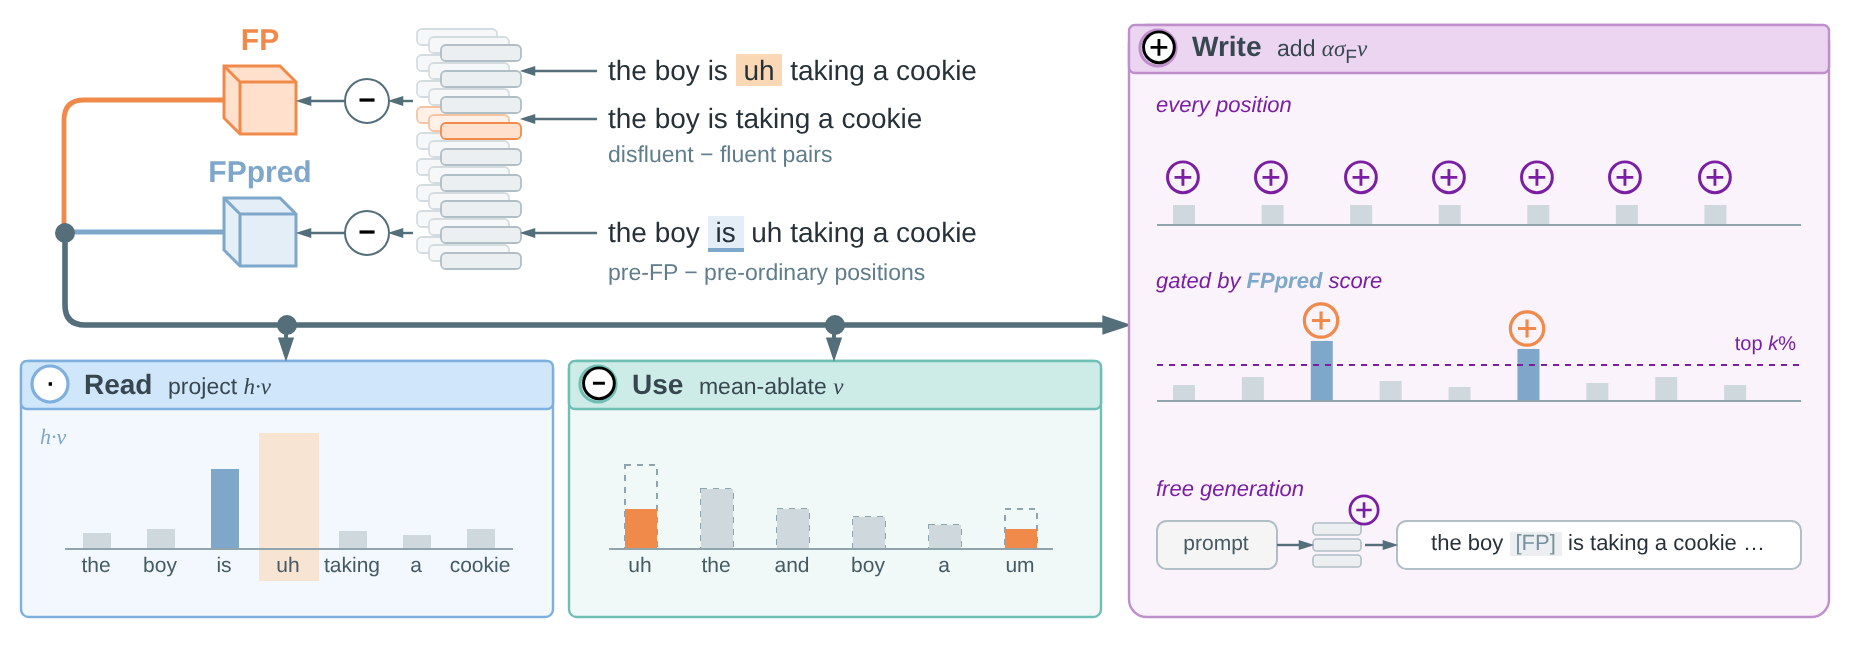
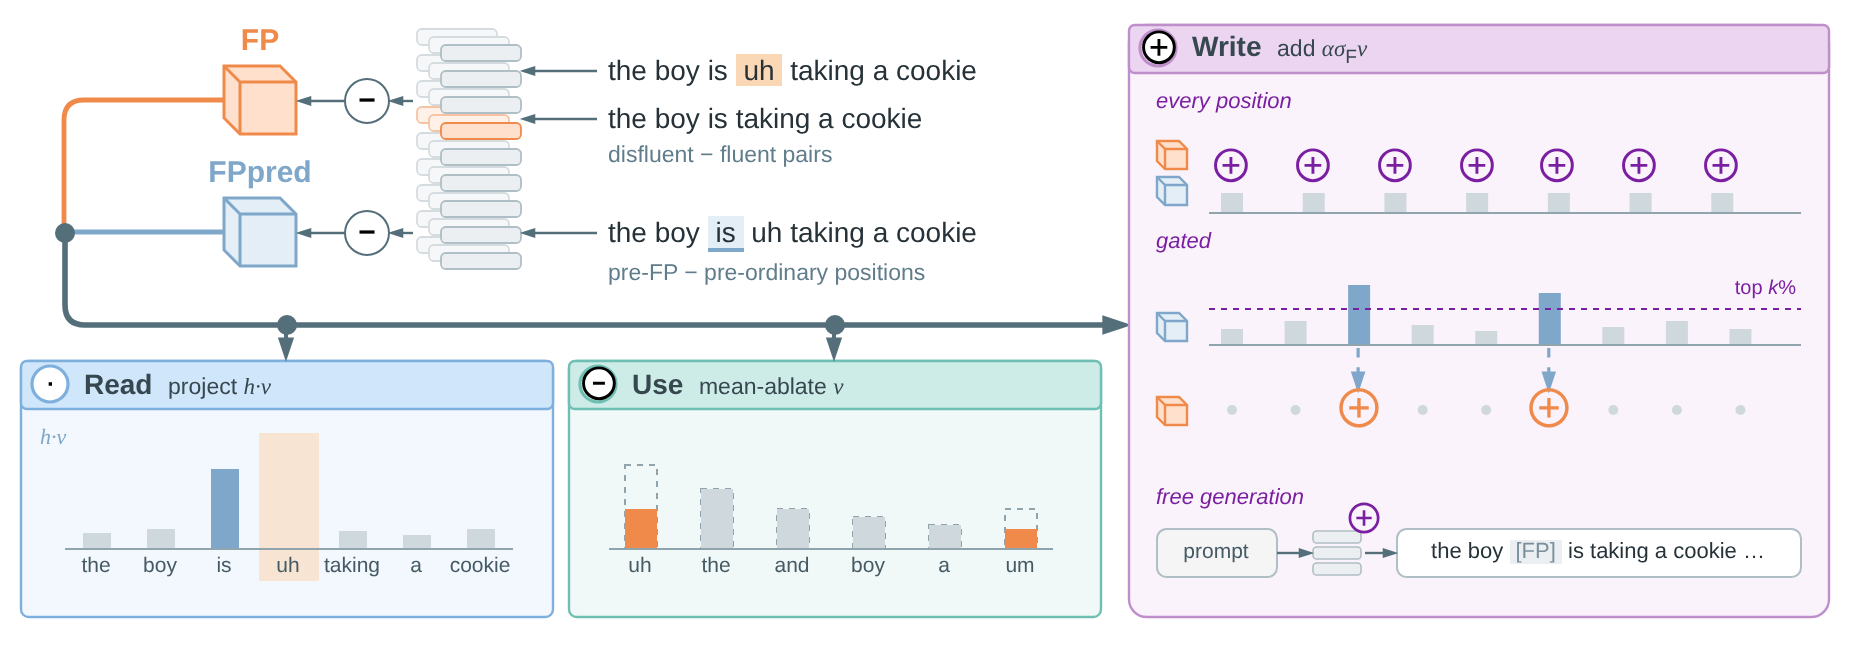
Overview figure: show FPpred gating graphically with mini direction cubes and trigger arrows
Claude-Session: https://claude.ai/code/session_01Nr8f45fQSeuNoeBXRTJGZT

diff --git a/figures/gen_overview.py b/figures/gen_overview.py
@@ -186,29 +186,49 @@ hline(gx - 8, gx + len(cands) * dx - 14, base, AXIS)
 
 # ---- Write (tall): every position, selected positions, free generation
 x, w, y, h = PANELS["Write"]
-blocks = (("every position", y + 34), (f"gated by <b><font color='{COOL_S}'>FPpred</font></b> score", y + 122))
-for k, (title, ty) in enumerate(blocks):
-    text(f"<i>{title}</i>", x + 12, ty, 220, 14, 11, PURPLE)
-    base = ty + 66
-    n = 7 if k == 0 else 9
-    ddx = (w - 40) / n
-    sc = [8, 12, 30, 10, 7, 26, 9, 12, 8]
-    for i in range(n):
-        xx = x + 22 + i * ddx
-        if k == 0:
-            bar(xx, base, 10, GREY_BAR, w=11)
-            text("⊕", xx - 3, base - 30, 17, 14, 12, PURPLE, "center", "fontStyle=1;")
-        else:
-            over = sc[i] > 18
-            bar(xx, base, sc[i], COOL_S if over else GREY_BAR, w=11)
-            if over:
-                text("⊕", xx - 3, base - sc[i] - 17, 17, 14, 13, WARM_S, "center", "fontStyle=1;")
-    hline(x + 14, x + w - 14, base, AXIS)
-    if k == 1:
-        hline(x + 14, x + w - 14, base - 18, "dashed=1;strokeColor=#7B1FA2;strokeWidth=1;")
-        text("top <i>k</i>%", x + w - 60, base - 34, 46, 12, 10, PURPLE, "right")
+def mini_cube(cx, cy, fill, stroke):
+    return v("", cx, cy, 15, 14, f"shape=cube;size=4;html=1;fillColor={fill};strokeColor={stroke};strokeWidth=1.2;")
 
-gy = y + 226
+
+X0 = x + 46                      # first position column
+# every position: both directions added everywhere
+ty = y + 32
+text("<i>every position</i>", x + 12, ty, 160, 14, 11, PURPLE)
+mini_cube(x + 14, ty + 26, WARM_F, WARM_S)
+mini_cube(x + 14, ty + 44, COOL_F, COOL_S)
+base = ty + 62
+n = 7
+ddx = (x + w - 18 - X0) / n
+for i in range(n):
+    xx = X0 + i * ddx
+    bar(xx, base, 10, GREY_BAR, w=11)
+    text("⊕", xx - 3, base - 30, 17, 14, 12, PURPLE, "center", "fontStyle=1;")
+hline(X0 - 6, x + w - 14, base, AXIS)
+
+# gated: FPpred scores (top row) open the gate; FP is injected only there (bottom row)
+ty = y + 102
+text("<i>gated</i>", x + 12, ty, 160, 14, 11, PURPLE)
+b1, b2 = ty + 58, ty + 98
+mini_cube(x + 14, b1 - 16, COOL_F, COOL_S)
+mini_cube(x + 14, b2 - 14, WARM_F, WARM_S)
+n = 9
+ddx = (x + w - 18 - X0) / n
+sc = [8, 12, 30, 10, 7, 26, 9, 12, 8]
+for i in range(n):
+    xx = X0 + i * ddx
+    over = sc[i] > 18
+    bar(xx, b1, sc[i], COOL_S if over else GREY_BAR, w=11)
+    if over:
+        e(None, None, f"endArrow=blockThin;endFill=1;dashed=1;strokeColor={COOL_S};strokeWidth=1.6;",
+          sp=(xx + 5.5, b1 + 2), tp=(xx + 5.5, b2 - 16))
+        text("⊕", xx - 3, b2 - 16, 17, 16, 14, WARM_S, "center", "fontStyle=1;")
+    else:
+        v("", xx + 3, b2 - 10, 5, 5, "ellipse;html=1;fillColor=#CFD8DC;strokeColor=none;")
+hline(X0 - 6, x + w - 14, b1, AXIS)
+hline(X0 - 6, x + w - 14, b1 - 18, "dashed=1;strokeColor=#7B1FA2;strokeWidth=1;")
+text("top <i>k</i>%", x + w - 60, b1 - 34, 46, 12, 10, PURPLE, "right")
+
+gy = y + 230
 text("<i>free generation</i>", x + 12, gy, 160, 14, 11, PURPLE)
 pc = v("prompt", x + 14, gy + 22, 60, 24,
        "rounded=1;arcSize=20;html=1;fillColor=#F5F5F5;strokeColor=#B0BEC5;fontSize=10.5;fontColor=#455A64;whiteSpace=wrap;" + FONT)

diff --git a/figures/overview_prompt.md b/figures/overview_prompt.md
@@ -187,3 +187,8 @@ Write 栏挂钩前放门控菱形 `FPpred high?`，接收来自 ② 的 `externa
 ## 20. v16
 
 - Write 门控块标题改为 "gated by FPpred score"（FPpred 蓝色），门控位置的 ⊕ 改为 FP 橙色：FPpred 选位置，FP 负责注入。
+
+## 21. v17
+
+- 门控改为图形表达：上行 FPpred 分数条（行首蓝色迷你方向块）+ 阈值线；只有超过阈值的位置有蓝色虚线箭头向下触发下行的橙色 ⊕（行首橙色迷你方向块），其余位置为灰点。
+- every position 行首放橙 + 蓝两个迷你方向块，表示两个方向都逐位置添加。标题缩为 "gated"。
